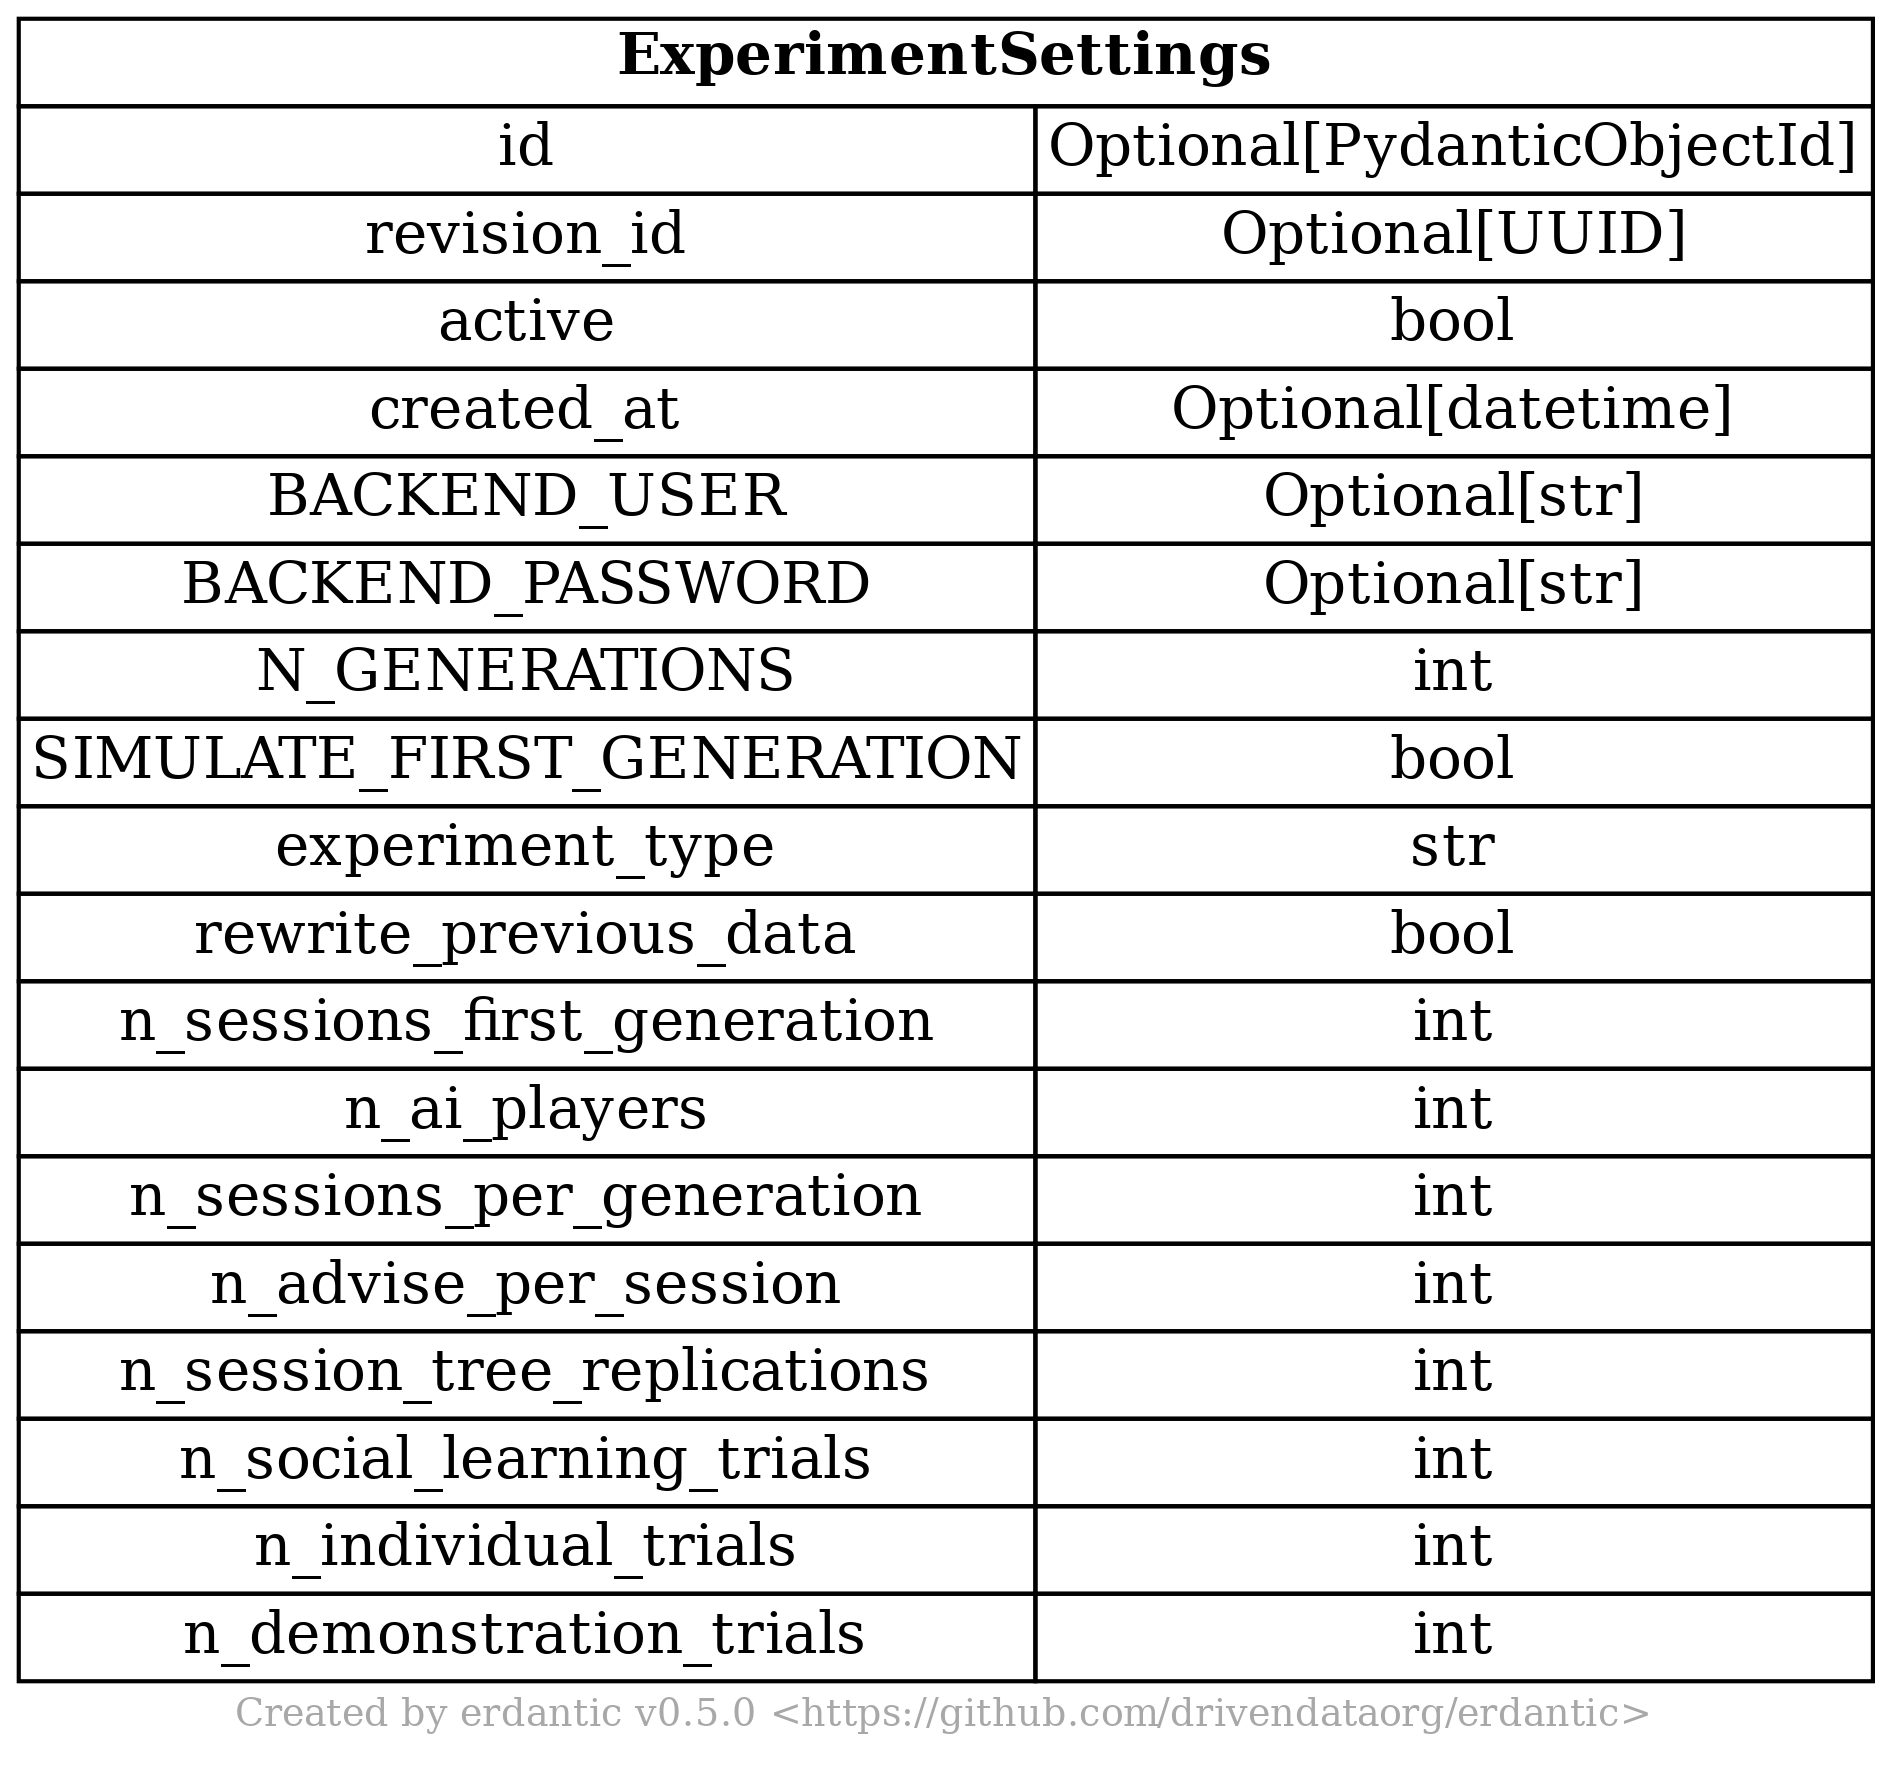
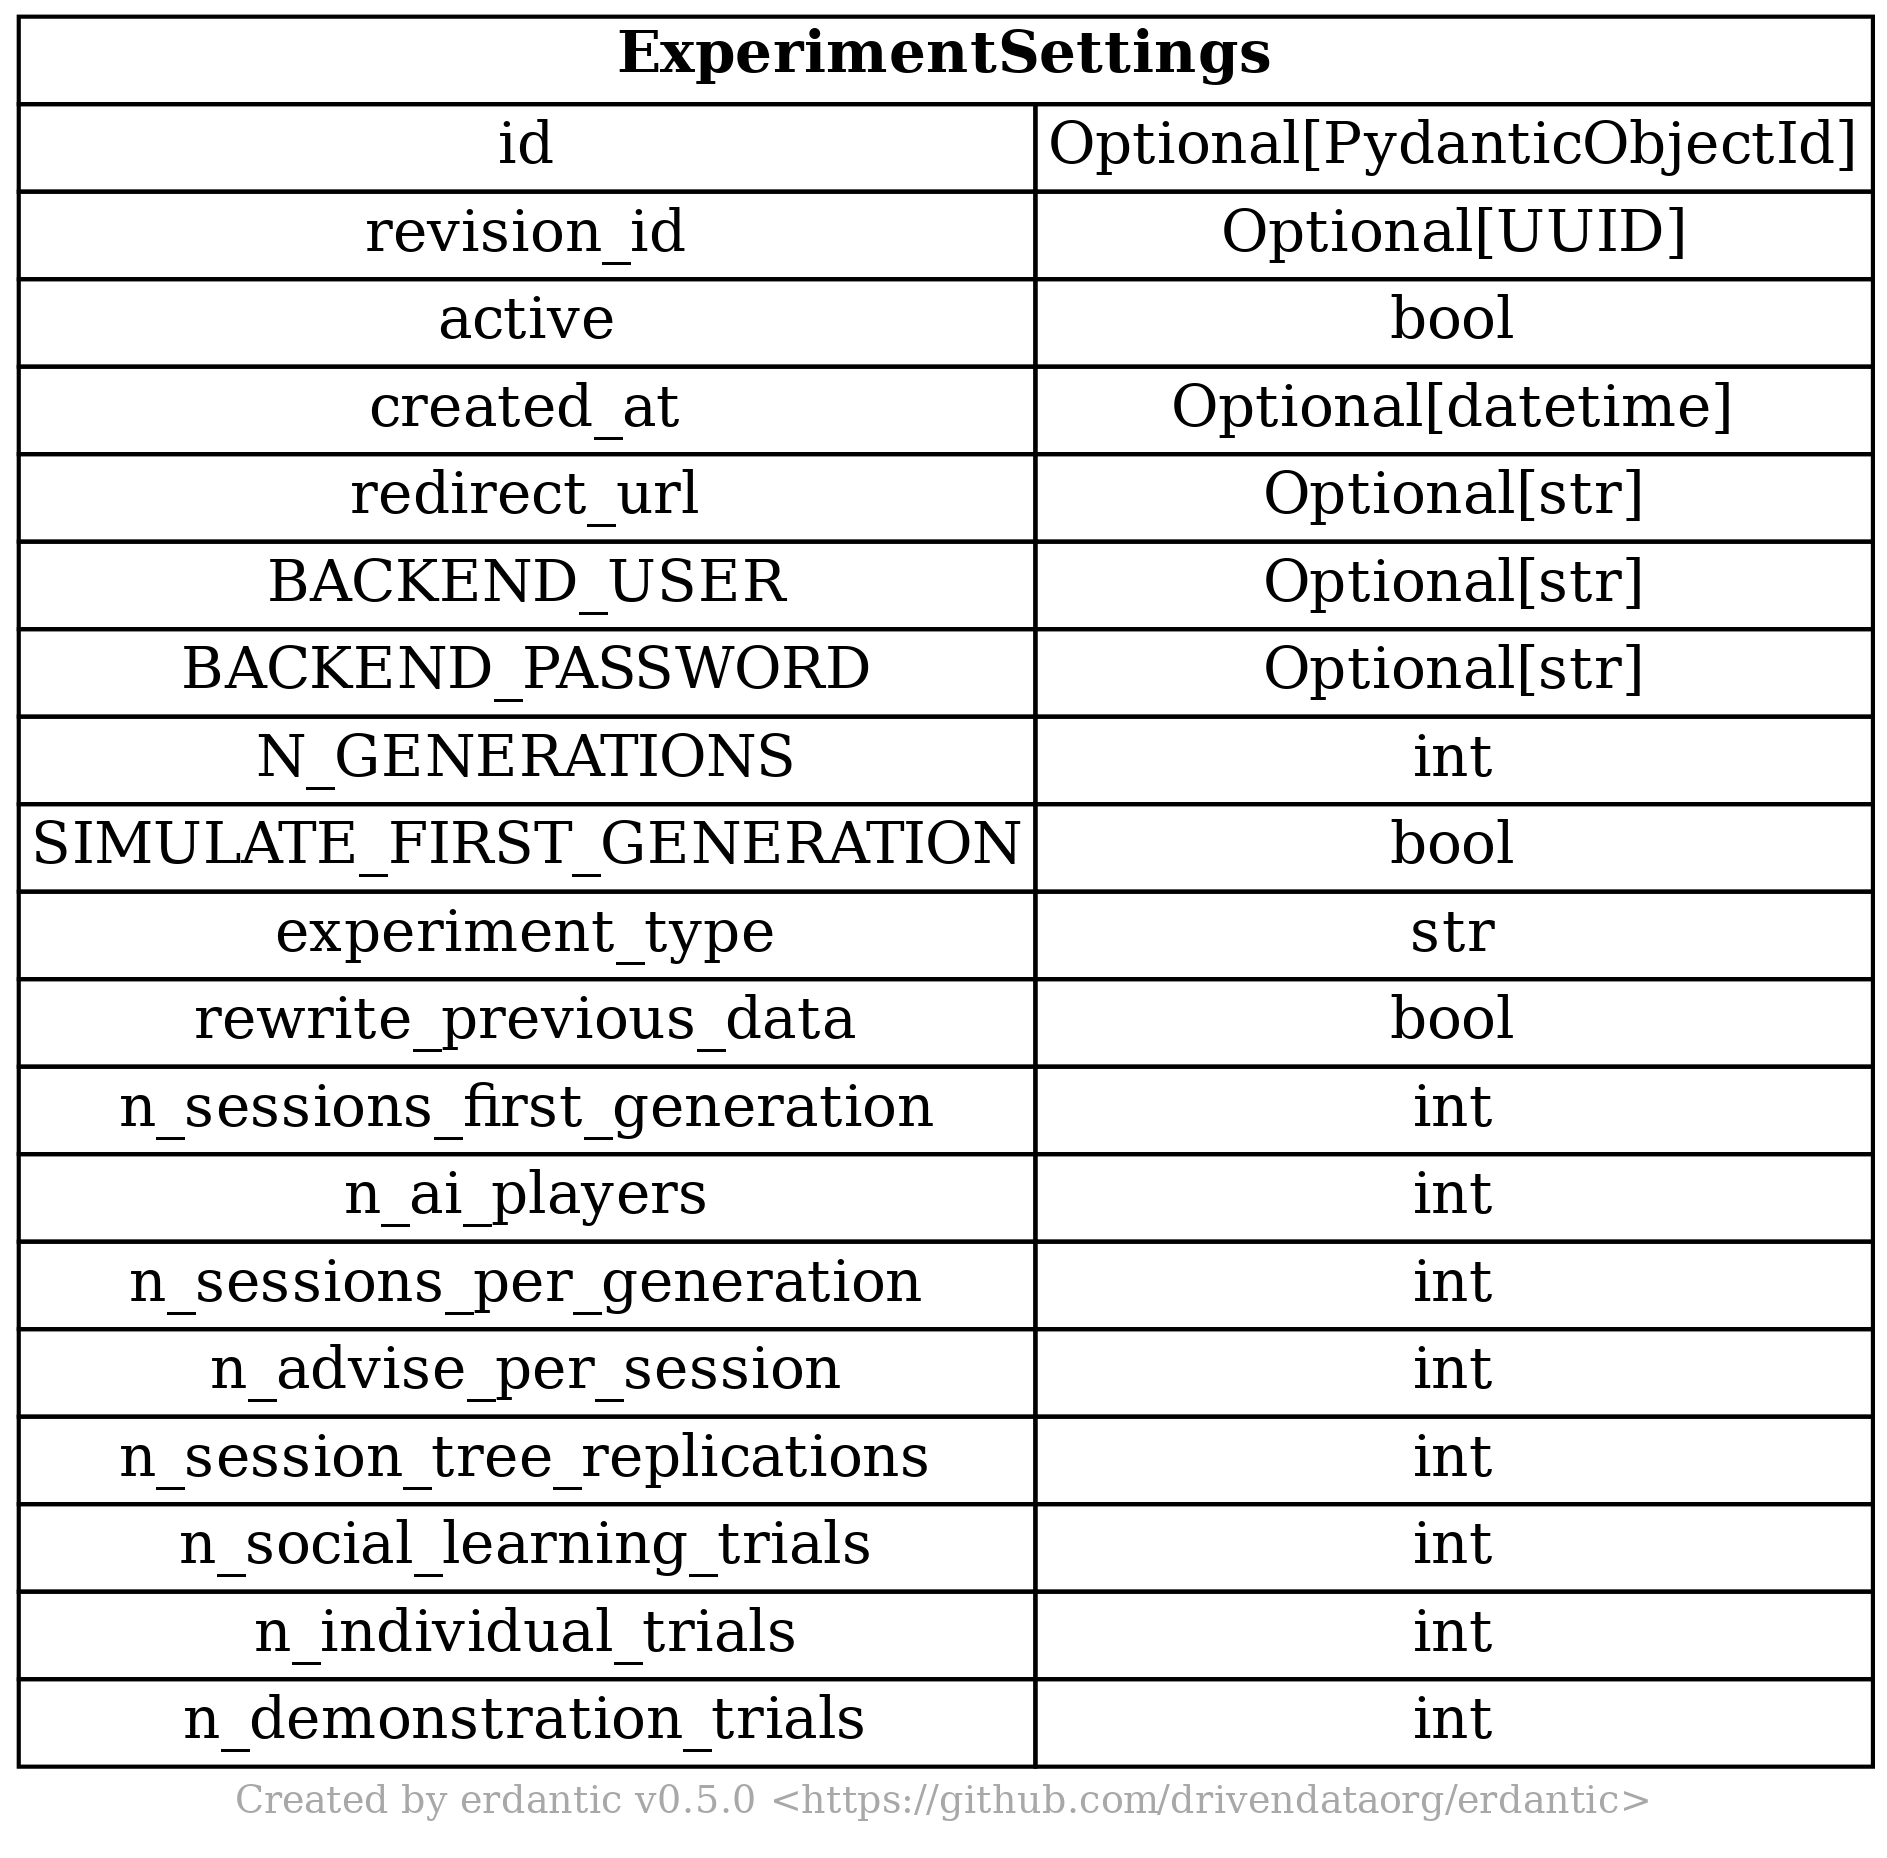
remove password and login from the experiment config

Changed region(s): [[0.0, 0.0, 0.9836, 0.9938]]

diff --git a/backend/app/routes/security_utils.py b/backend/app/routes/security_utils.py
@@ -1,20 +1,23 @@
+import os
+
 from fastapi import Depends, HTTPException
 from fastapi.security import HTTPBasic, HTTPBasicCredentials
 from starlette.status import HTTP_401_UNAUTHORIZED
-
-from models.config import ExperimentSettings
+from dotenv import load_dotenv
 
 # protect some routes with basic auth
 security = HTTPBasic()
 
 
 async def get_user(credentials: HTTPBasicCredentials = Depends(security)):
-    # find an active configuration
-    config = await ExperimentSettings.find_one(
-        ExperimentSettings.active == True)
+    load_dotenv()
 
-    if credentials.username != config.BACKEND_USER or \
-            credentials.password != config.BACKEND_PASSWORD:
+    # find an active configuration
+    BACKEND_USER = os.getenv("BACKEND_USER")
+    BACKEND_PASSWORD = os.getenv("BACKEND_PASSWORD")
+
+    if credentials.username != BACKEND_USER or \
+            credentials.password != BACKEND_PASSWORD:
         raise HTTPException(
             status_code=HTTP_401_UNAUTHORIZED,
             detail="Incorrect email or password",

diff --git a/backend/app/study_setup/generate_sessions.py b/backend/app/study_setup/generate_sessions.py
@@ -47,7 +47,7 @@ async def generate_experiment_sessions():
         for replication in range(config.n_session_tree_replications):
             await generate_sessions(
                 config_id=config.id,
-                n_generations=config.N_GENERATIONS,
+                n_generations=config.n_generations,
                 n_sessions_per_generation=config.n_sessions_per_generation,
                 n_advise_per_session=config.n_advise_per_session,
                 experiment_type=config.experiment_type,
@@ -59,7 +59,7 @@ async def generate_experiment_sessions():
                 n_demonstration_trials=config.n_demonstration_trials,
             )
 
-        if config.SIMULATE_FIRST_GENERATION:
+        if config.simulate_first_generation:
             from tests.simultate_session_data import simulate_data
             await simulate_data(1, config)
 

diff --git a/backend/app/models/config.py b/backend/app/models/config.py
@@ -8,16 +8,13 @@ class ExperimentSettings(Document):
     # whether the experiment is active
     active: bool = False
     created_at: Optional[datetime] = datetime.now()
-
-    # username and password for basic auth on routes to view progress and
-    # results
-    BACKEND_USER: Optional[str] = "admin"
-    BACKEND_PASSWORD: Optional[str] = "admin"
+    # https://app.prolific.co/submissions/complete?cc=4FC4E0C0
+    redirect_url: Optional[str] = None
 
     # These variables are rewritten on deployment
     # number of generations with the first generation
-    N_GENERATIONS: int = 3
-    SIMULATE_FIRST_GENERATION: bool = False  # development only
+    n_generations: int = 3
+    simulate_first_generation: bool = False  # development only
 
     # other experiment settings
     experiment_type: str = 'reward-network-iii'  # name of the experiment

diff --git a/backend/app/routes/admin.py b/backend/app/routes/admin.py
@@ -36,8 +36,6 @@ async def update_config(new_config: ExperimentSettings,
     # create a new config
     new_config.active = True
     new_config.created_at = datetime.now()
-    new_config.BACKEND_USER = config.BACKEND_USER
-    new_config.BACKEND_PASSWORD = config.BACKEND_PASSWORD
     await new_config.save()
 
     # generate sessions
